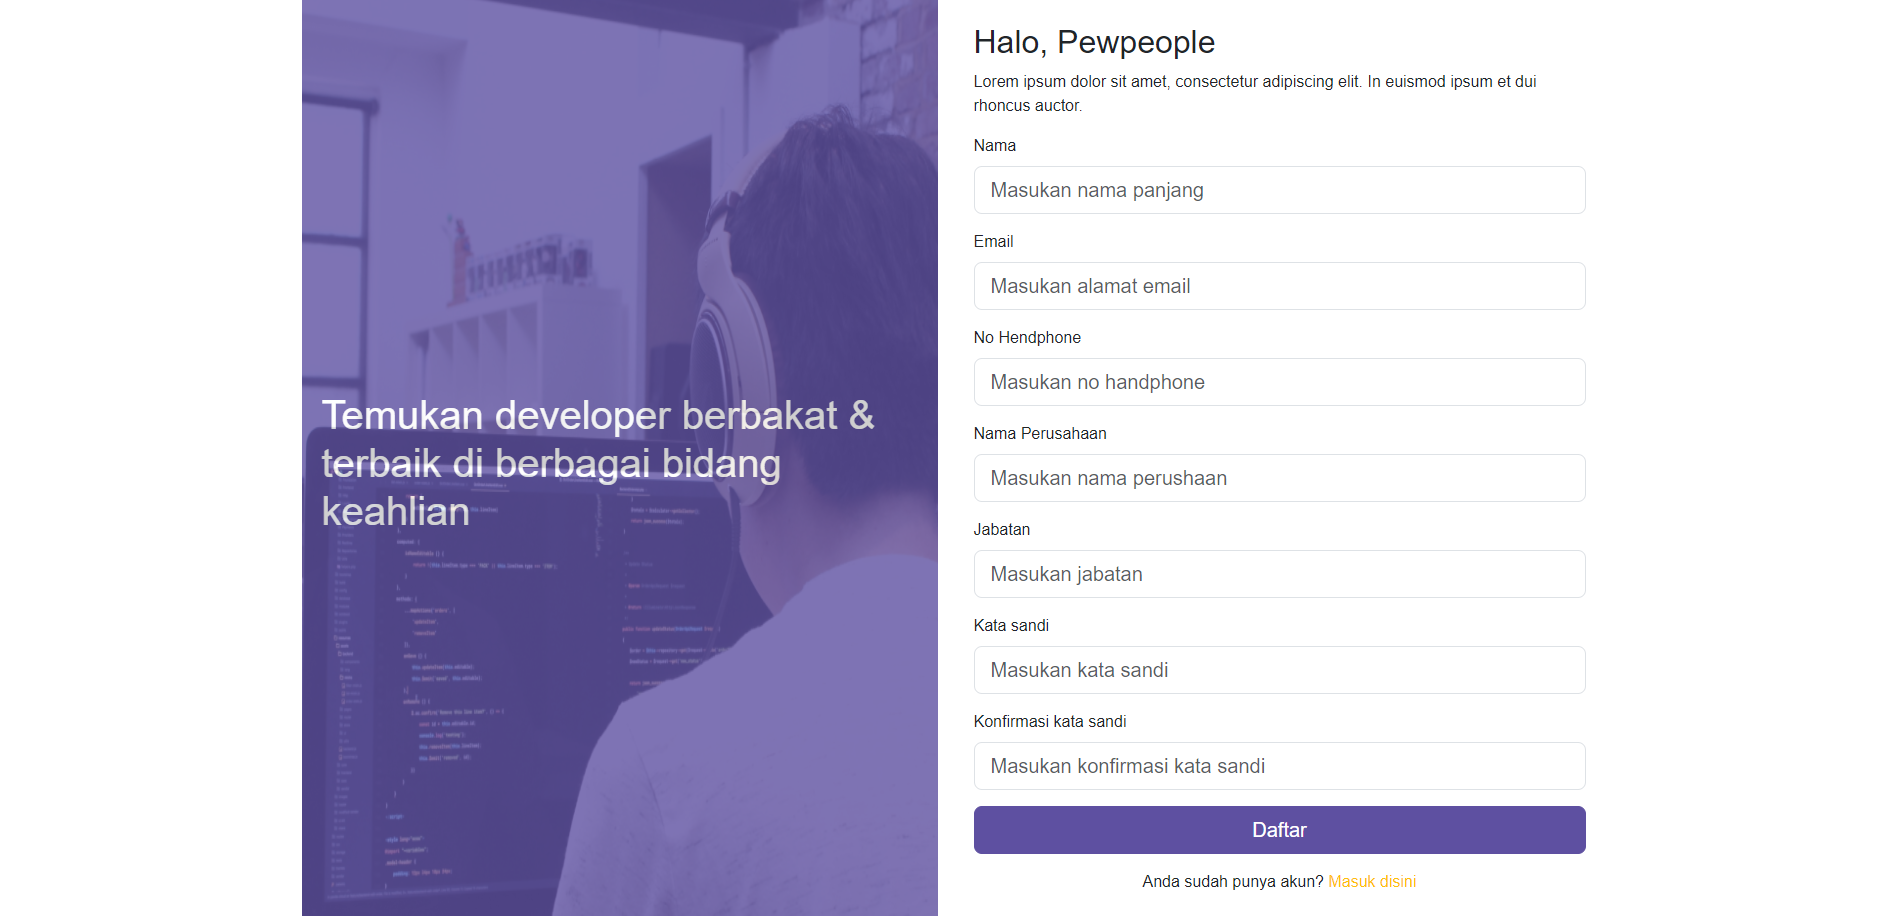
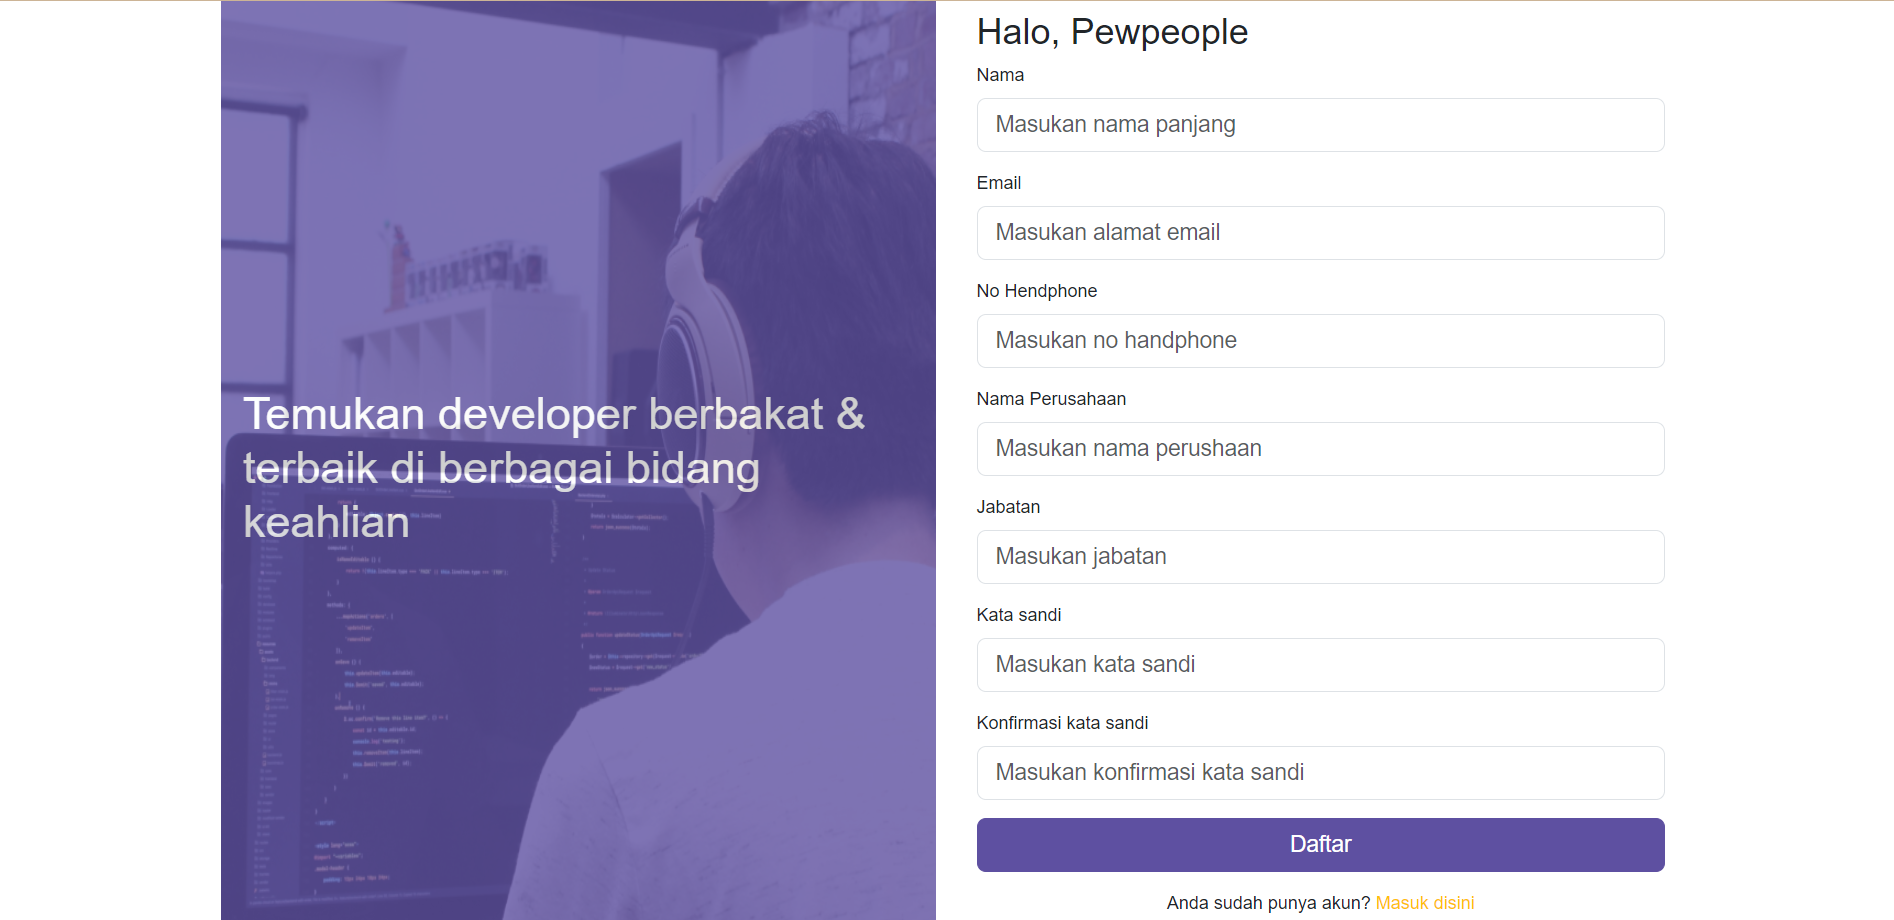
[UPDATE] photo

diff --git a/pages/homeAkun.js b/pages/homeAkun.js
@@ -9,7 +9,32 @@ import Footer from '@/components/footer';
 function HomeAkun() {
 const state = useSelector((state)=>state);
 const router = useRouter();
+
 const [jobs, setJobs] = React.useState()
+const [currentPage, setCurrentPage] = React.useState(1)
+const [data, setData] = React.useState([])
+const [totalPage, setTotalPage] = React.useState(1)
+
+React.useEffect(() =>{
+  axios
+    .get('https://hire-job.onrender.com/v1/job?page=1&limit8')
+    .then(({data :{data}}) => {
+      // console.log(res),
+      setTotalPage(data?.total_page)
+      setData(data?.rows)
+    })
+},[])
+
+const hendleNextPage = (page) =>{
+  axios
+    .get(`https://hire-job.onrender.com/v1/job?page=${page}&limit8`)
+    .then(({ data: { data } }) => {
+      // console.log(res),
+      setTotalPage(data?.total_page)
+      setData(data?.rows)
+      setCurrentPage(page)
+    })
+}
 
 // React.useEffect(()=>{
 //   if(Object.keys(state.dataAuth.data) == 0){
@@ -17,7 +42,7 @@ const [jobs, setJobs] = React.useState()
 //   }else{
 //     console.log(state.dataAuth.data);
 //   }
-// })
+// },[])
 
 axios.get("https://hire-job.onrender.com/v1/job/all")
 .then((response) => {
@@ -60,7 +85,6 @@ axios.get("https://hire-job.onrender.com/v1/job/all")
             </div>
           })} */}
 
-          <div className="card p-1 mb-3 ">
             {/* {jobs.map((item, key) => {
               <div className="d-flex justify-content-between align-items-center flex-wrap mt-2" key={key}>
                 <div className="d-flex">
@@ -88,33 +112,61 @@ axios.get("https://hire-job.onrender.com/v1/job/all")
               </div>;
             })} */}
 
-            <hr />
+            
+            {data.map((item, key) => (
+          <div className="card p-1 mb-3 ">
+              <div className="d-flex justify-content-between align-items-center flex-wrap" key={key}>
+                <div className="d-flex p-3">
+                  <img src={item.photo ?? "profile-error.png"} 
+                  alt="foto profile" 
+                  className="rounded-circle img-fluid" 
+                  style={{ width: "100px", height: "100px", borderRadius: "50%", objectFit: "cover" }} 
+                  />
 
-            <div className="d-flex justify-content-between align-items-center flex-wrap">
-              <div className="d-flex">
-                <img src="/fotoProfile.webp" alt="foto profile" className="rounded-circle img-fluid" style={{ width: "150px", height: "150px", borderRadius: "50%" }}></img>
-
-                <div>
-                  <h5>Louis Tomlinson</h5>
-                  <p className="text-muted">Web developer</p>
-                  <p className="text-muted">Lorem ipsum</p>
-                  <div className="d-flex flex-wrap">
-                    {["Java", "Kotlin", "PHP", "Javascript"].map((item, key) => (
-                      <div className="row me-3 d-flex flex-wrap" key={key}>
-                        <p className="bg-warning rounded text-light">{item}</p>
-                      </div>
-                    ))}
+                  <div className="ms-4">
+                    <h5>{item.fullname}</h5>
+                    <p className="text-muted">{item.job_title ?? 'belum ada pekerjaan'}</p>
+                    <p className="text-muted">{item.company}</p>
+                    <div className="d-flex flex-wrap">
+                      {item?.skills?.map((item, key) => (
+                        <div className="row me-3 d-flex flex-wrap" key={key}>
+                          <p className="bg-warning rounded text-light">{item}</p>
+                        </div>
+                      ))}
+                    </div>
                   </div>
                 </div>
-              </div>
 
-              <div className="">
-                <button type="button" className="btn btn-primary me-3 ms-3 mb-2" style={{ height: "40px" }}>
-                  Lihat Profile
-                </button>
-              </div>
-            </div>
+                <div className="">
+                  <Link href={`./job/${key}`} type="button" className="btn btn-primary me-3 ms-3 mb-2" style={{ height: "40px" }}>
+                    Lihat Profile
+                  </Link>
+                </div>
+              
+              </div>  
           </div>
+            ))}
+            
+          {/* pagination */}
+          <nav aria-label="Page navigation example">
+            <ul class="pagination justify-content-center">
+              <li class="page-item"><a class="page-link" href="#">Previous</a></li>
+              {[...new Array(totalPage)].map((item, key) => {
+                const _page = ++key
+                  
+                    return(
+                  <li 
+                  class={`page-item ${_page === currentPage ? "active" : ""}`} 
+                    key={key}>
+                      <a class="page-link" 
+                        onClick={() => hendleNextPage(_page)} >
+                        {_page}
+                      </a></li>
+                    )
+              })}
+              <li class="page-item"><a class="page-link" href="#">Next</a></li>
+            </ul>
+          </nav>
         </div>
 
         {/* end content */}

diff --git a/pages/job/[id].js b/pages/job/[id].js
@@ -1,0 +1,144 @@
+import React from 'react';
+import Link from 'next/link';
+import {useRouter} from "next/router";
+import { useSelector } from "react-redux";
+
+import Navbar from '@/components/navbar';
+import Footer from "@/components/footer";
+
+import { BiMap } from "react-icons/bi";
+
+function Profile() {
+  const [user, setUser] = React.useState("")
+  const router = useRouter();
+  const state = useSelector((state) => state);
+
+ React.useEffect(() =>{
+  if(Object.keys(state.dataAuth.data).length == 0){
+    router.push("/login")
+  }else{
+    setUser(state.dataAuth.data);
+    console.log(state.dataAuth.data)
+  }
+ })
+
+let company = [...new Array(2)];
+    return (
+      <div id="profile_page" style={{ backgroundColor: "#E5E5E5" }}>
+        {/* Strat navbar */}
+        <Navbar />
+        <div style={{ height: "50%", width: "100%" }}>
+          <div className="bg-primary position-absolute" style={{ height: "250px", width: "100%" }}></div>
+        </div>
+        {/* end navbar */}
+
+        <div className="container mt-5 mb-5">
+          <div className="row">
+            <div className="col col-md-4 mb-4">
+              <div className="card p-4">
+                <div className="d-flex justify-content-center">
+                  <img
+                    src={user.photo ?? '../public/auth.png'}
+                    alt="profile"
+                    style={{
+                      height: "150px",
+                      width: "150px",
+                      borderRadius: "50%",
+                    }}
+                  />
+                </div>
+
+                <h1 style={{ fontSize: "30px", marginTop: "30px" }}>{user.fullname}</h1>
+                <p>{user.job_title}</p>
+                <p classname="text-muted">
+                  <BiMap /> {user?.domicile == 0 ? 'tidak ada' : user?.domicile}
+                </p>
+                <p>{user?.company}</p>
+
+                <p className="text-black-50">{user?.description}</p>
+
+                <Link href="/hirejob" class="d-grid gap-2 mt-3 text-decoration-none">
+                  <button className="btn btn-primary btn-lg mb-3">Hire</button>
+                </Link>
+
+                <h2 style={{ fontSize: "25px" }}>Skills</h2>
+                {user?.skills == 0 ? ('belum ada skill') : (<div className="d-inline">
+                  {user?.skills?.map((item, key) => (
+                    <span key={key} class="badge bg-warning m-1 p-2 ">
+                      {item}
+                    </span>
+                  ))}
+                </div>)} 
+              
+              </div>
+            </div>
+
+            <div className="col col-md-8">
+              <div className="card p-4">
+                <ul className="nav nav-underline">
+                  <li className="nav-item">
+                    <a className="nav-link active" aria-current="page" href="#">
+                      Pengalaman kerja
+                    </a>
+                  </li>
+                </ul>
+                {user?.job_history == 0 ? 'Belum ada pengalaman kerja' : (<> {user?.job_history?.map((item, key) => (
+                  <div className="row mt-4 descProfile d-flex flex-wrap" key={key}>
+                    <div className="col col-md-2">
+                      <img src={item.logo} style={{ width: "100%" }} />
+                    </div>
+
+                    <div className="col col-md-10">
+                      <h5 className="mb-0">{item.position ?? 'Pelum ada posisi'}</h5>
+                      <p className="mb-0">{item.company ?? 'Perusahaan belum ada'}</p>
+                      <div className="d-flex align-items-center">
+                        <p style={{ color: "#9EA0A5" }}>{item.date}</p>
+                        <p style={{ marginLeft: "30px", color: "#9EA0A5" }}>6 months</p>
+                      </div>
+                      <p>{item.description}</p>
+
+                      {key === company.length - 1 ? null : <hr />}
+                    </div>
+                  </div>
+                ))}</> )}
+               
+              </div>
+            </div>
+          </div>
+        </div>
+
+        {/* start footer */}
+        <Footer />
+        {/* end footer */}
+      </div>
+    );
+}
+
+export async function getStaticPaths() {
+    // Call an external API endpoint to get posts
+   const listId = [1, 2, 3, 4, 5];
+
+    // Get the paths we want to pre-render based on posts
+    const paths = listId.map((post) => ({
+        params: { id: post.toString() },
+    }))
+
+    // We'll pre-render only these paths at build time.
+    // { fallback: false } means other routes should 404.
+    return { paths, fallback: false }
+}
+
+// convert this page into html
+export async function getStaticProps() {
+    const posts = await res.json()
+
+    // By returning { props: { posts } }, the Blog component
+    // will receive `posts` as a prop at build time
+    return {
+        props: {
+            posts,
+        },
+    }
+}
+
+export default Profile

diff --git a/pages/register.js b/pages/register.js
@@ -70,10 +70,10 @@ function Registrasi() {
                   height: "125vh",
                   width: "100%",
                   position: "absolute",
-                  top: -50,
+                  top: 40,
                   opacity: 0.8,
                   padding: "20px",
-                  marginTop: '50px'
+                  marginTop: '-40px'
                 }}
               >
                 <h1 className="text-white">Temukan developer berbakat & terbaik di berbagai bidang keahlian</h1>
@@ -84,7 +84,6 @@ function Registrasi() {
           </div>
           <div class="col-md-6 p-4 inputRegister">
             <h2>Halo, Pewpeople</h2>
-            <p>Lorem ipsum dolor sit amet, consectetur adipiscing elit. In euismod ipsum et dui rhoncus auctor.</p>
 
             <form onSubmit={handleRegistrasi}>
               <div class="mb-3">

diff --git a/pages/index.js b/pages/index.js
@@ -54,7 +54,7 @@ export default function Home() {
             <div className="col-md-5">
               <h2 className="mb-5">Kenapa harus mencari tallent di peworld</h2>
 
-              {["Memiliki berbagai keahlian", "Kandidat berkhualias", "Proses pencarian kandidat mudah", "Kandidat yang bertalenta"].map((item, key) => (
+              {["Memiliki berbagai keahlian", "Kandidat berkualitas", "Proses pencarian kandidat mudah", "Kandidat yang bertalenta"].map((item, key) => (
                 <div className="d-flex align-items-center mb-3" key={key}>
                   <img src="/circleCheck.svg" style={{ marginRight: "20px" }} />
                   <p className="mb-0">{item}</p>

diff --git a/pages/login.js b/pages/login.js
@@ -83,7 +83,7 @@ function Login() {
 
           <div className="col-md-6 p-4 inputLogin">
             <h2>Halo, Pewpeople</h2>
-            <p>Lorem ipsum dolor sit amet, consectetur adipiscing elit. In euismod ipsum et dui rhoncus auctor.</p>
+            
 
             {errMsg ? (
               <div className="alert alert-danger" role="alert">
